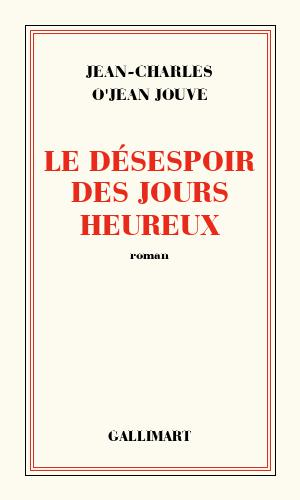
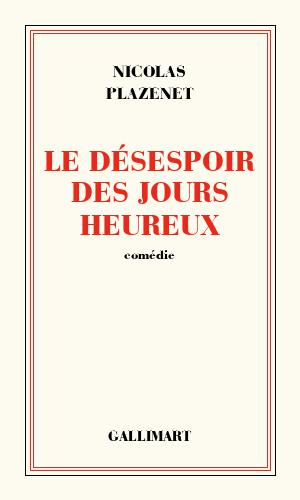
add book types

Changed region(s): [[0.27, 0.12, 0.72, 0.21], [0.42, 0.48, 0.57, 0.54]]

diff --git a/src/names/books.py b/src/names/books.py
@@ -1,0 +1,38 @@
+class Books:
+    """
+	Class Books
+	"""
+
+    def __init__(self):
+        pass
+
+    def get_author_books(self, author: str) -> List[str]:
+        return
+
+    def mashup_names(self, authors: (str, str)) -> str:
+        # Get books by author name
+        books_authors0 = self.get_author_books(name[0])
+        books_authors1 = self.get_author_books(name[1])
+        # Equalize the number of books
+        books_to_mashup = _equalize_size(books_authors0, books_authors1)
+
+        return
+
+
+def _equalize_size(lst_1: List[str], lst_2: List[str]) -> List[str]:
+    """
+	Equalize "logarythmically" size of two list
+	"""
+    BASE = 3
+    # Handle empty lists
+    if not lst_1:
+        return lst_2
+    if not lst_2:
+        return lst_1
+    # Handle case list widely different size
+    if BASE < len(list(lst_1)) / len(list(lst_2)):
+        return lst_1[: len(list(lst_2))] + lst_2
+    if BASE < len(list(lst_2)) / len(list(lst_1)):
+        return lst_2[: len(list(lst_1))] + lst_1
+    # Handle case of about same length (same BASE)
+    return lst_1 + lst_2

diff --git a/src/names/books_type.py b/src/names/books_type.py
@@ -1,0 +1,32 @@
+from random import choice
+from logging import getLogger
+
+logger = getLogger(__name__)
+
+
+class BooksType:
+    """
+    Class
+
+    TODO: guess the book type based on the book name
+    """
+
+    def __init__(self):
+        """
+        Init the BooksType object
+        """
+        self.BOOS_TYPE = []  # pylint: disable=invalid-name
+        self.load_books_type()
+
+    def load_books_type(self) -> None:
+        """
+        Load the books type
+        """
+        with open("./data/french_book_types.txt") as file:
+            self.BOOS_TYPE = [line.rstrip() for line in file]
+
+    def get_random_books_type(self) -> str:
+        """
+        Get two random books type
+        """
+        return choice(self.BOOS_TYPE)

diff --git a/src/__init__.py b/src/__init__.py
@@ -1,5 +1,6 @@
 from .images.gallimart import make_image
 from .names.author import Author, mashup_names
+from .names.books_type import BooksType
 
 
 def main() -> None:
@@ -7,8 +8,11 @@ def main() -> None:
     Main
     """
     author = Author()
+    books_type = BooksType()
+
     author_names = author.get_random_names()
     author_name = mashup_names(author_names)
     # book_title = author.get_book_title(author_names)
-    image = make_image(author_name, "Le Désespoir des jours heureux", "Roman")
+    book_type = books_type.get_random_books_type()
+    image = make_image(author_name, "Le Désespoir des jours heureux", book_type)
     image.save("./image_test.jpg")

diff --git a/README.md b/README.md
@@ -3,3 +3,8 @@
 A Twitter bot that mashs up two different French author and their works to create new titles.
 
 Inspired by [FlagMashupBot](https://github.com/antooro/FlagsMashupBot).
+
+## TODO
+
+- Add optional _Preface_
+- Add optional red banner _Goncourt 2020_
